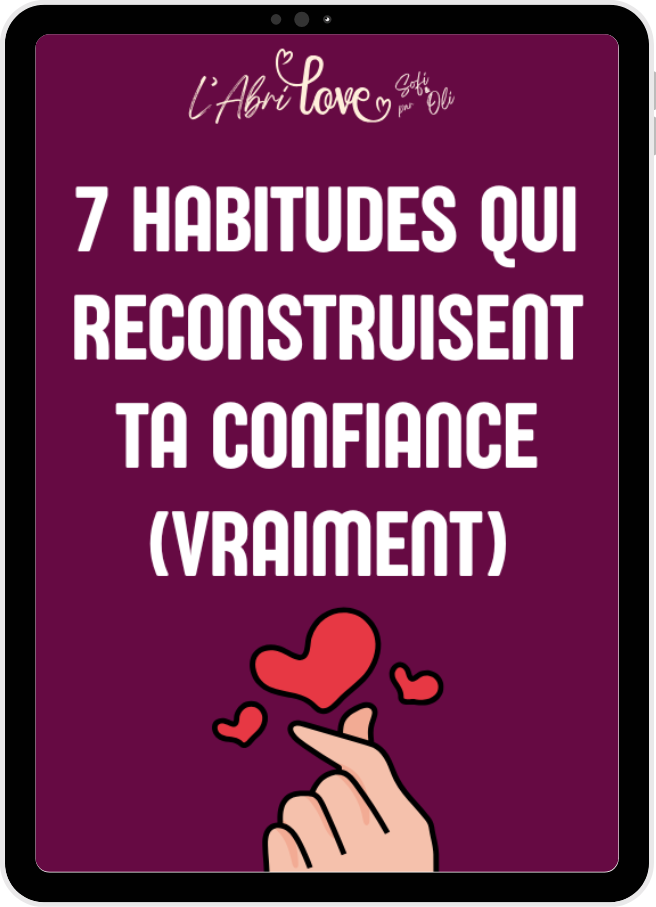
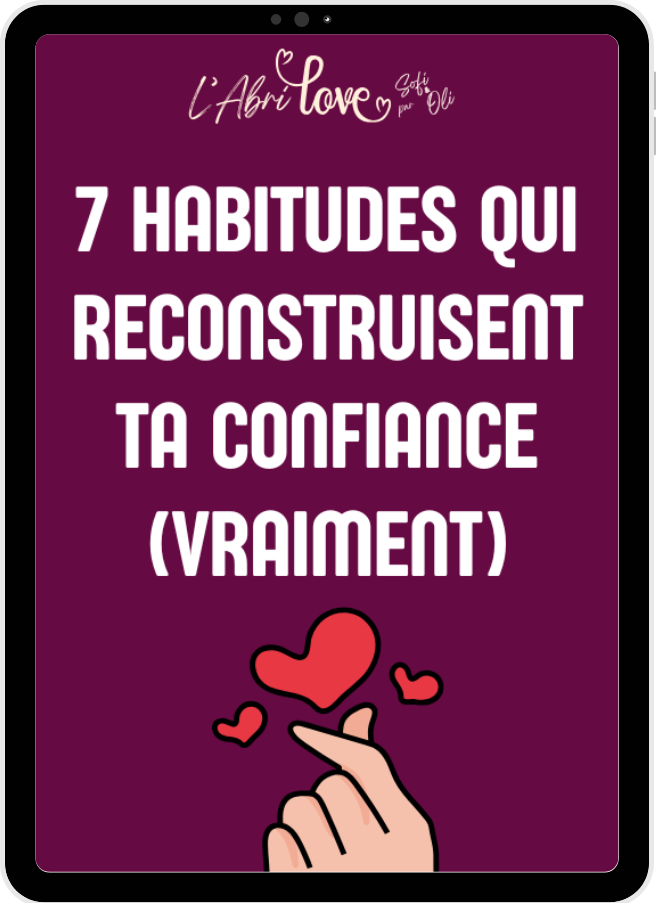
Réduit hauteur images ebooks gratuits à 260px

diff --git a/src/views/AmourPage.jsx b/src/views/AmourPage.jsx
@@ -119,7 +119,7 @@ function EbookCard({ ebook }) {
         <img
           src={ebook.cover}
           alt={ebook.title}
-          style={{ width: '100%', height: 'auto', display: 'block' }}
+          style={{ width: '100%', height: '260px', objectFit: 'cover', objectPosition: 'top', display: 'block' }}
         />
         <div style={{
           position: 'absolute', top: 14, left: 14,
